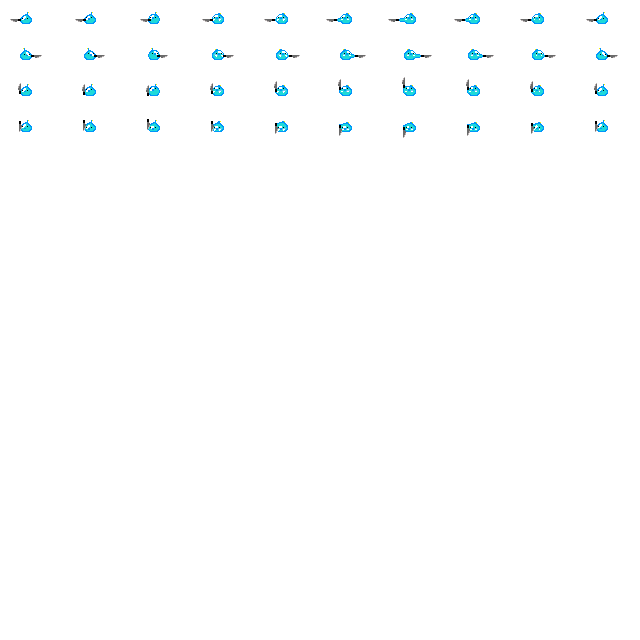
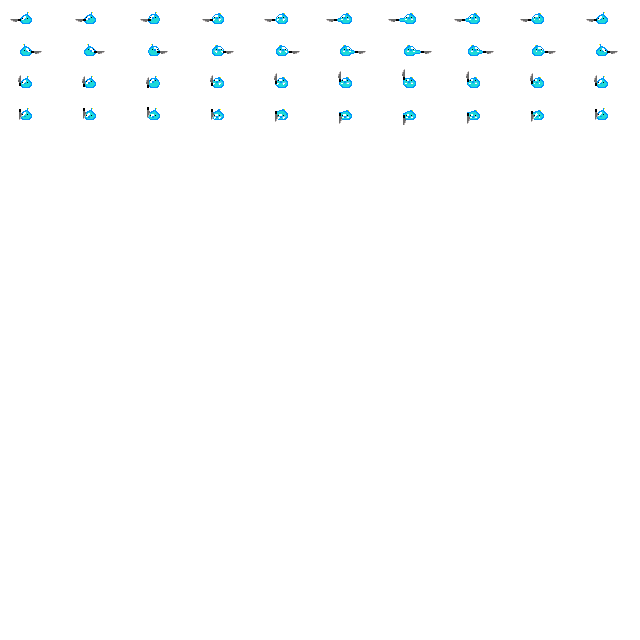
Updating slimes attack animations to correlate with where the mouse was clicked

diff --git a/slime.js b/slime.js
@@ -14,7 +14,7 @@ class Slime {
         //slime state variables
         this.state = 0; // 0 = idle, 1 = left, 2 = right, 3 = up, 4 = down, 5 = dead, 6 = attacking
         this.weaponState = 0; // 0 = no weapon, 1 = knife, 2 = pistol
-        this.attackAngle = 0; // 1 = up, 2 = right, 3 = down, 4 = left
+        this.attackAngle = 0; // 1 = left, 2 = right, 3 = up, 4 = down
         this.dead = false;
         
 
@@ -91,6 +91,7 @@ class Slime {
         let stabCircle = this.game.knife.stabPos();
     
         if (this.hasKnife && this.game.mouseClick) {
+            this.attackDirection();
             console.log(stabCircle.x);
             console.log(stabCircle.y);
             console.log(stabCircle.radius);
@@ -132,8 +133,29 @@ class Slime {
     };
 
     attackDirection() {
-          //will be helper method
+        let mouseX = this.game.mouseClickPos.x;
+        let mouseY = this.game.mouseClickPos.y;
+
+        let slimeX = this.x + 31 - this.game.camera.x;
+        let slimeY = this.y + 55 - this.game.camera.y;
+    
+        // Calculate the angle between the mouse click and the slime's position
+        let angle = Math.atan2(mouseY - slimeY, mouseX - slimeX);
+    
+        // Convert the angle to a int (1 = left, 2 = right, 3 = up, 4 = down)
+        let angleInDegrees = (180 / Math.PI) * angle;
+        if (angleInDegrees < 45 && angleInDegrees >= -45) {
+            this.attackAngle = 2; // right
+        } else if (angleInDegrees < 135 && angleInDegrees >= 45) {
+            this.attackAngle = 4; // down
+        } else if (angleInDegrees >= 135 || angleInDegrees < -135) {
+            this.attackAngle = 1; // left
+        } else {
+            this.attackAngle = 3; // up
+        }
+
     }
+    
     
 
     getCircle() {
@@ -163,6 +185,7 @@ class Slime {
 
         // 1st 0 = no weapon, 1 = knife, 2 = pistol
         // 2nd 0 = idle, 1 = left, 2 = right, 3 = up, 4 = down, 5 = dead, 6 = attacking
+        // 3rd 1 = left, 2 = right, 3 = up, 4 = down
         // new Animator(spriteSheet, xSpriteSheet, ySpriteSheet, width, height, frameCount, frameDuration, scale);
         this.animations[0][0][0] = new Animator(this.NoWeaponSpritesheet, 0, 0, 32, 32, 10, .175, 2); // idle
         this.animations[0][1][0] = new Animator(this.NoWeaponSpritesheet, 0, 128, 32, 32, 10, .175, 2); //left
@@ -179,12 +202,13 @@ class Slime {
         this.animations[1][4][0] = new Animator(this.KnifeSpritesheet, 0, 32, 32, 32, 10, .175, 2); // down
         this.animations[1][5][0] = new Animator(this.KnifeSpritesheet, 0, 192, 32, 32, 10, .175, 2); // dead
         // this.animations[1][6] = new Animator(this.KnifeSpritesheet, 0, 160, 32, 32, 10, .175, 2); // old knife stab attack
-        this.animations[1][6][0] = new Animator(this.knifeAttackSpriteSheet, 0, 0, 64, 32, 10, .095, 2); // new knife stab attack
-        
-        // this.leftAnimation = new Animator(this.knifeAttackSpriteSheet, 0, 0, 64, 32, 10, .095, 2);
-        //this.rightAnimation = new Animator(this.knifeAttackSpriteSheet, 0, 32, 64, 32, 10, .095, 2);
-        // this.upAnimation   = new Animator(this.knifeAttackSpriteSheet, 0, 64, 64, 32, 10, .095, 2);   
-        // this.downAnimation = new Animator(this.knifeAttackSpriteSheet, 0, 110, 64, 32, 10, .095, 5);                                                         
+        this.animations[1][6][0] = new Animator(this.knifeAttackSpriteSheet, 0, 0, 64, 32, 10, .095, 2); // new knife stab attack place holder
+        this.animations[1][6][1] = new Animator(this.knifeAttackSpriteSheet, 0, 0, 64, 32, 10, .095, 2); // left
+        this.animations[1][6][2] = new Animator(this.knifeAttackSpriteSheet, 0, 32, 64, 32, 10, .095, 2); // right
+        this.animations[1][6][3] = new Animator(this.knifeAttackSpriteSheet, 0, 64, 64, 32, 10, .095, 2); // up
+        this.animations[1][6][4] = new Animator(this.knifeAttackSpriteSheet, 0, 96, 64, 32, 10, .095, 2); // down
+
+                                                         
 
 
 
@@ -343,8 +367,8 @@ class Slime {
                 if(this.elapsedDeadAnimTime > 1.5){
                     this.removeFromWorld = true;
                 }
-        } else if(this.state == 6){ // attacking                                                       // magic numbers to keep the slime centered
-                this.animations[this.weaponState][this.state][0].drawFrame(this.game.clockTick, ctx, this.x - 18 - this.game.camera.x, this.y + 18 - this.game.camera.y, [this.collisionCircle, this.overlapCollisionCircle]);
+        } else if(this.state == 6){ // attacking                                                       // magic numbers to keep the slime centered - 18    + 18
+            this.animations[this.weaponState][this.state][this.attackAngle].drawFrame(this.game.clockTick, ctx, this.x - 18 - this.game.camera.x, this.y + 18 - this.game.camera.y, [this.collisionCircle, this.overlapCollisionCircle]);
         } else {
             this.animations[this.weaponState][this.state][0].drawFrame(this.game.clockTick, ctx, this.x - this.game.camera.x, this.y - this.game.camera.y, [this.collisionCircle, this.overlapCollisionCircle]);
         }
